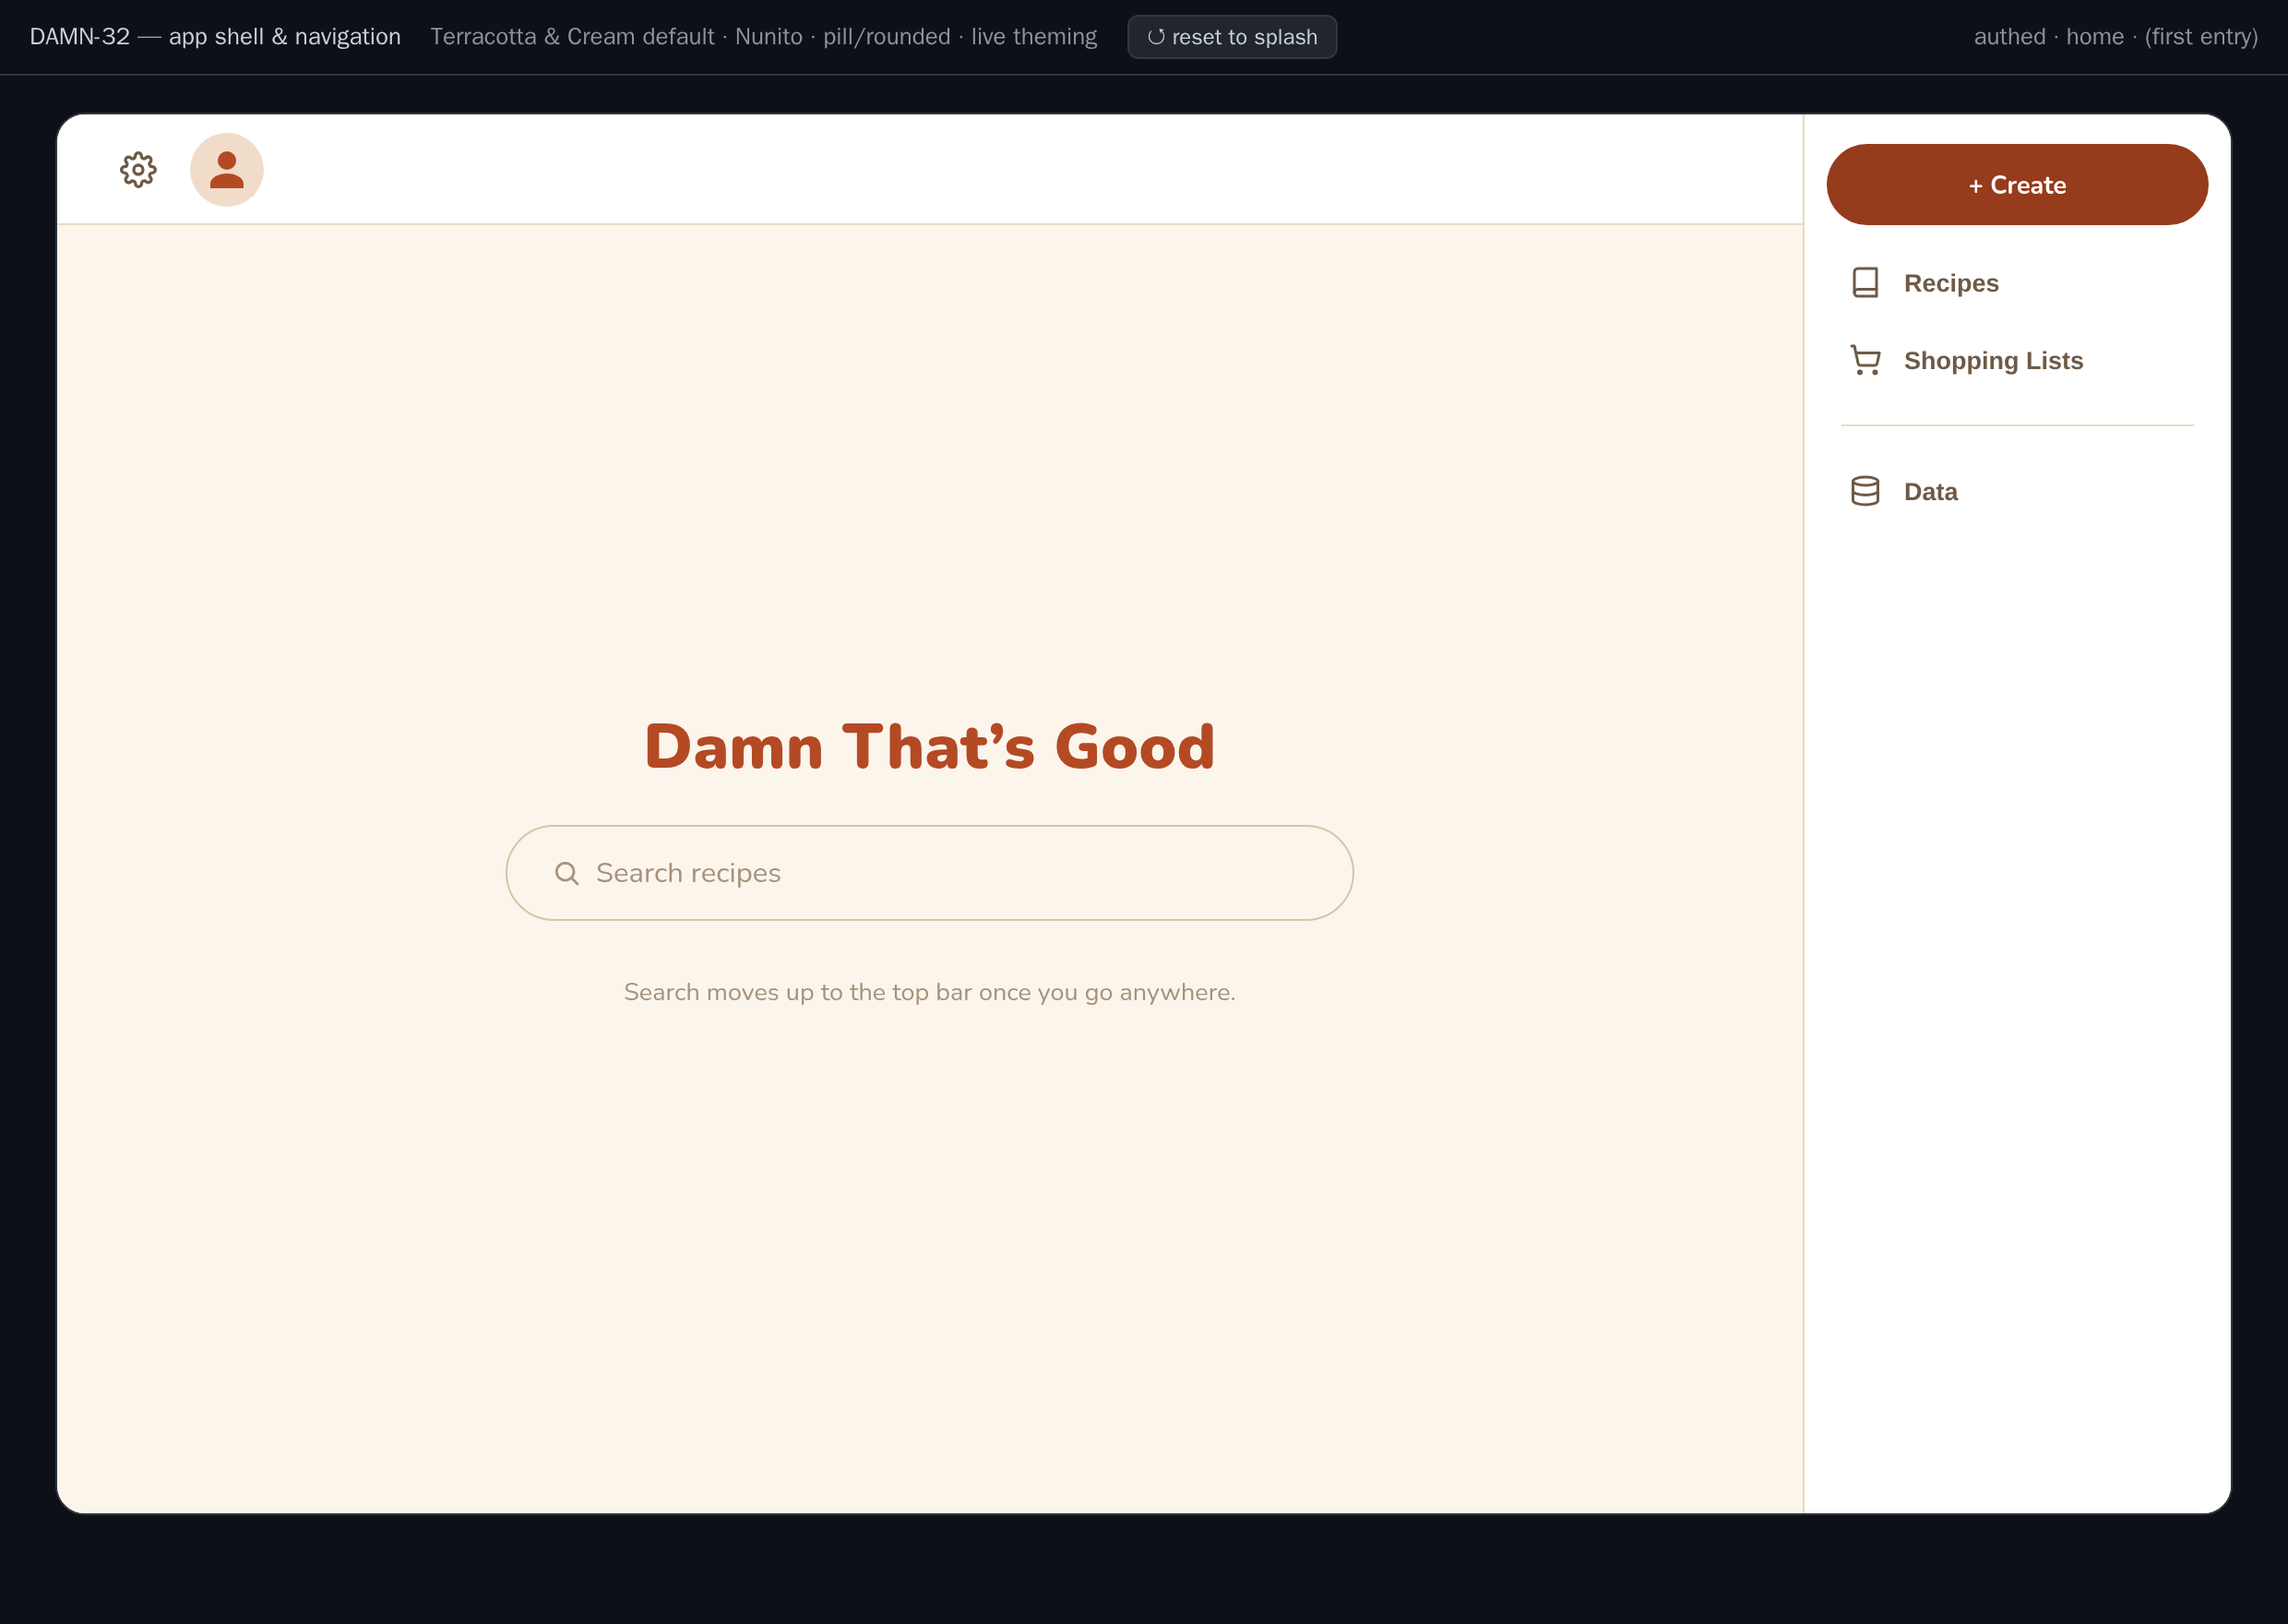
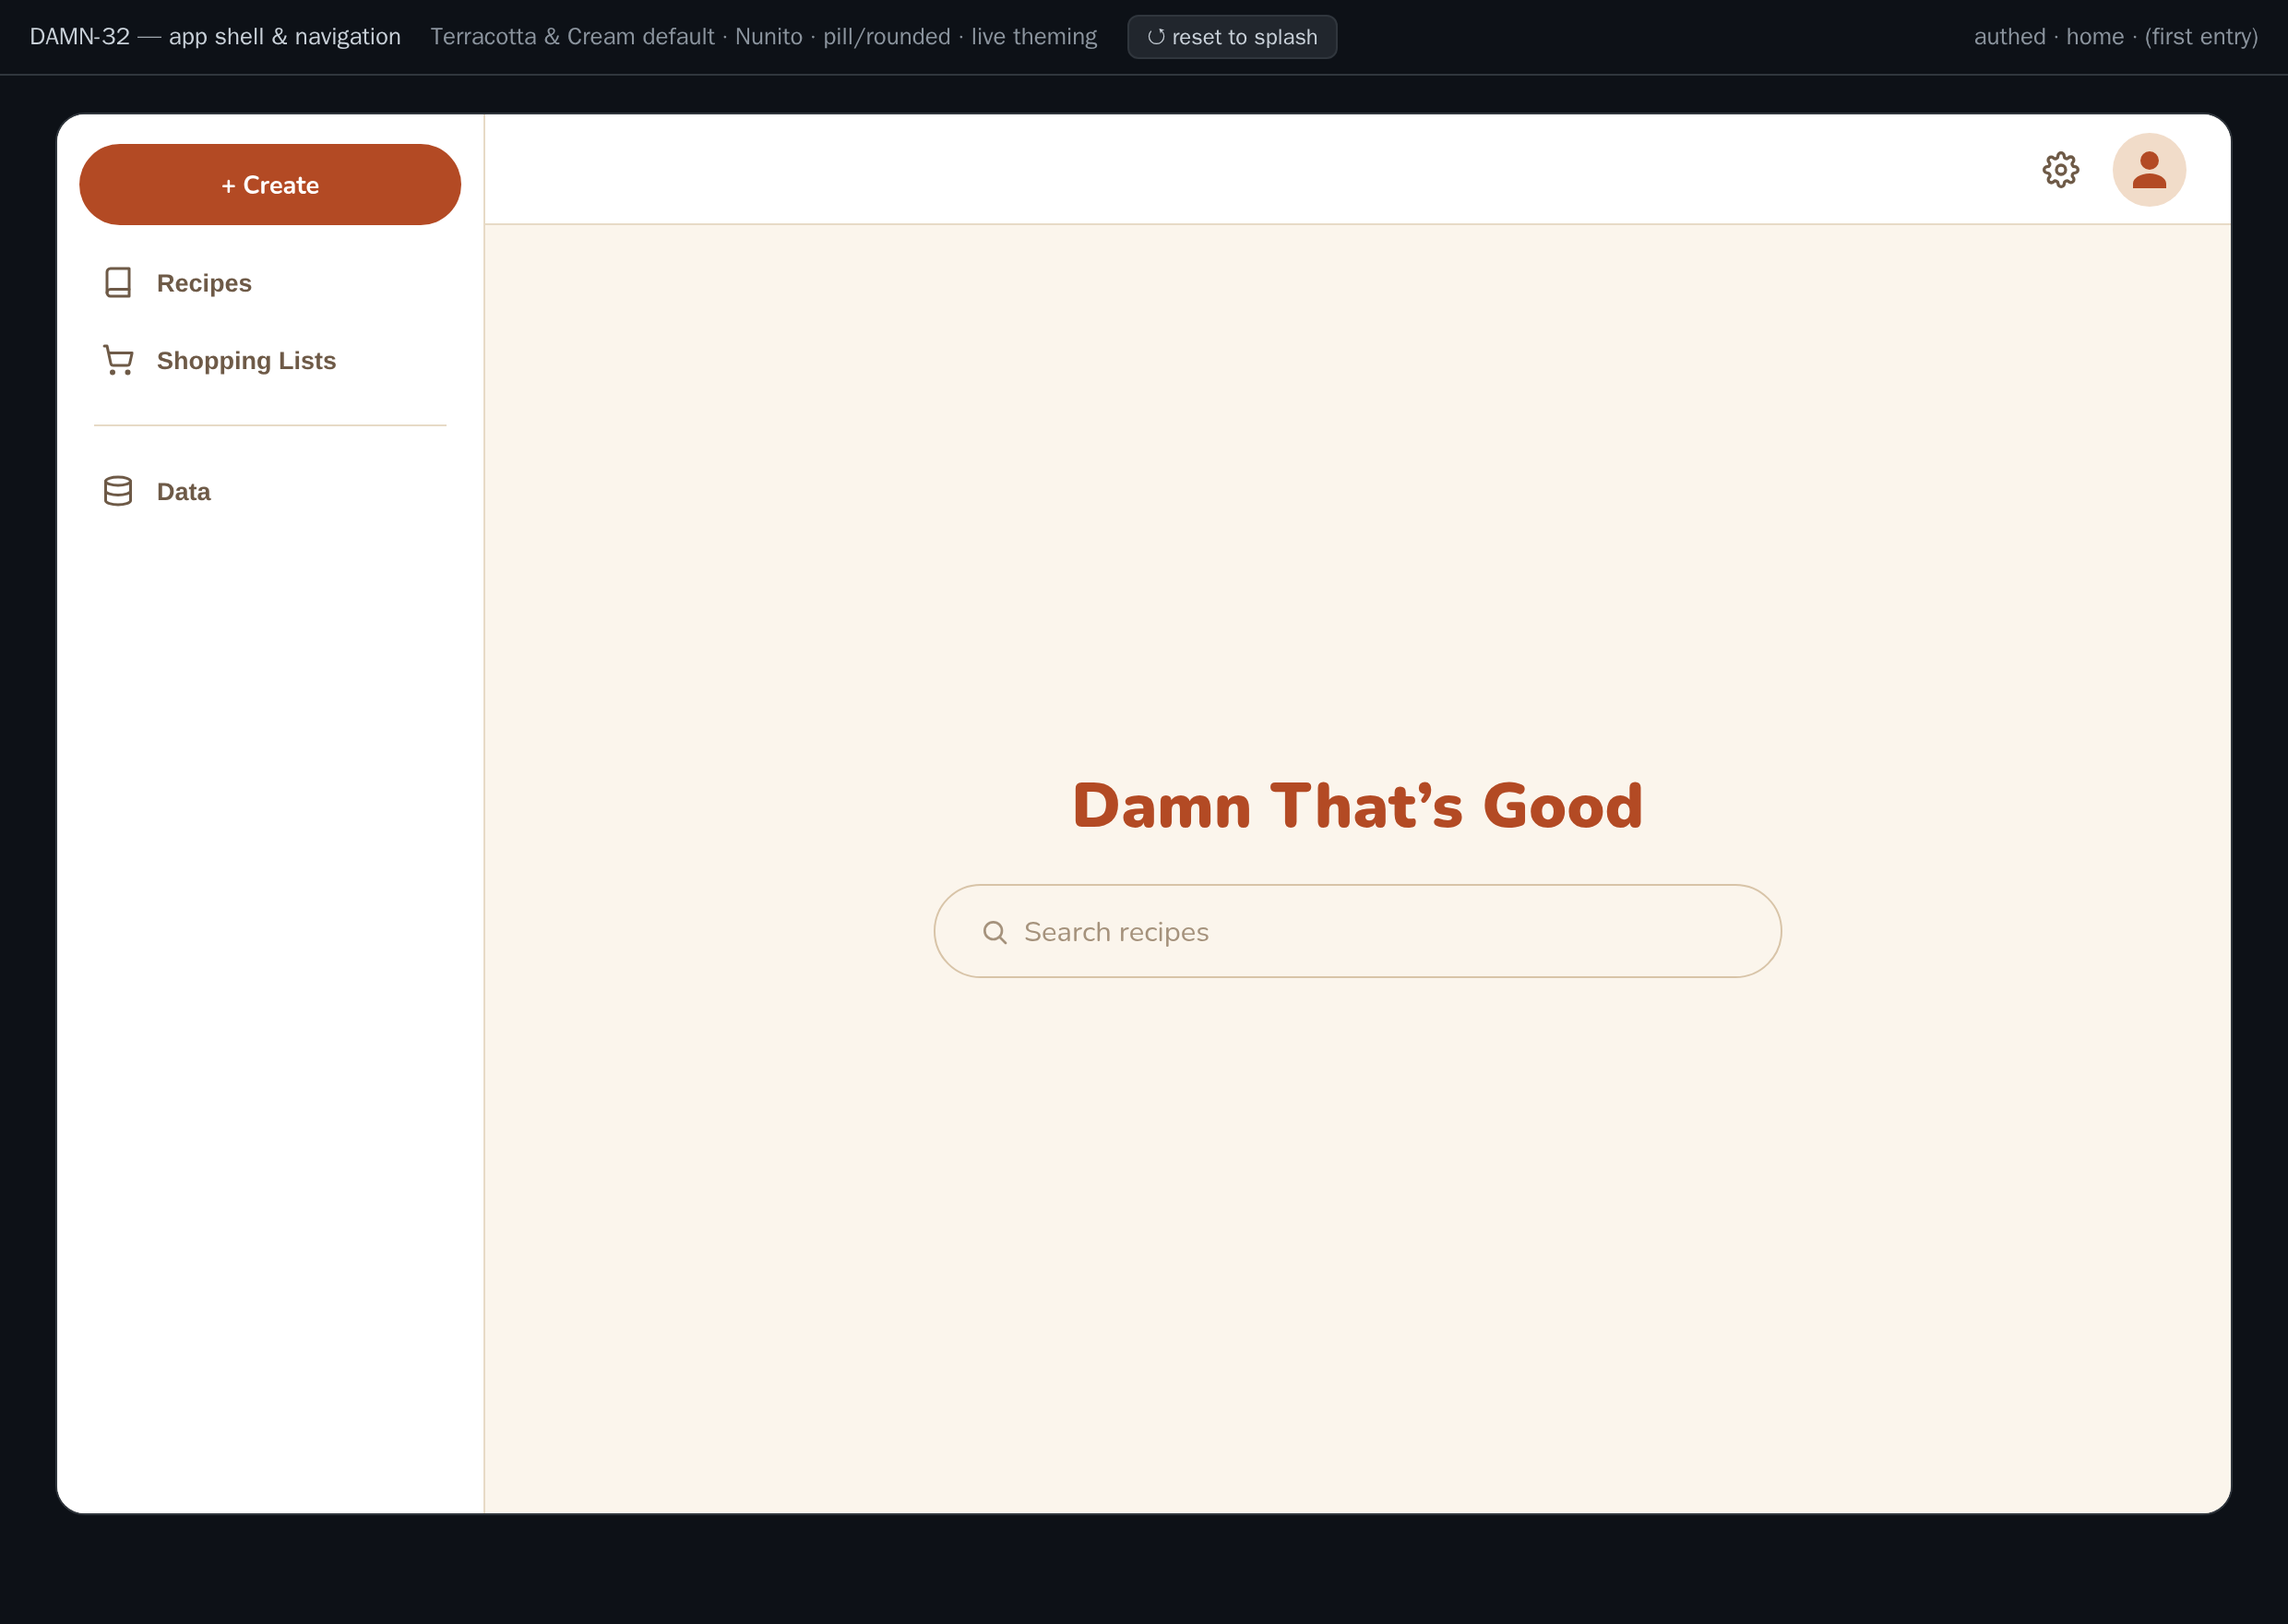
DAMN-32: mockup revisions from review
- splash: drop top-left wordmark + tagline (centered wordmark only)
- shell: nav rail moves to the left, gear + avatar to the right
- popovers reposition (settings/avatar open from the right, Create from the left)
- drop the mockup-only "search moves up" annotation

Claude-Session: https://claude.ai/code/session_01EenMmnY8aPtCiYP1EZCHrh

diff --git a/docs/features/DAMN-32-ux-framework-app-shell-navigation/mockups/app-shell.html b/docs/features/DAMN-32-ux-framework-app-shell-navigation/mockups/app-shell.html
@@ -122,8 +122,8 @@
   .app {
     width: 1180px; max-width: 100%; height: 760px;
     border-radius: 16px; overflow: hidden; border: 1px solid #30363d;
-    display: grid; grid-template-columns: 1fr 232px; grid-template-rows: 60px 1fr;
-    grid-template-areas: "topbar nav" "main nav";
+    display: grid; grid-template-columns: 232px 1fr; grid-template-rows: 60px 1fr;
+    grid-template-areas: "nav topbar" "nav main";
     background: var(--color-bg-primary); color: var(--color-text-primary);
     font-family: var(--font-sans); font-size: var(--text-base);
     line-height: var(--leading-normal);
@@ -138,7 +138,7 @@
     padding: 0 var(--space-5); border-bottom: 1px solid var(--color-border);
     background: var(--color-bg-secondary);
   }
-  .brand-cluster { display: flex; align-items: center; gap: var(--space-2); }
+  .account-cluster { display: flex; align-items: center; gap: var(--space-2); flex: none; }
   .wordmark {
     font-weight: 900; font-size: var(--text-lg); letter-spacing: .005em;
     color: var(--color-brand); white-space: nowrap;
@@ -172,10 +172,10 @@
   }
   .search-input svg { width: 16px; height: 16px; flex: none; }
 
-  /* ---- right nav rail ---- */
+  /* ---- left nav rail ---- */
   .nav-rail {
     grid-area: nav; background: var(--color-bg-secondary);
-    border-left: 1px solid var(--color-border);
+    border-right: 1px solid var(--color-border);
     padding: var(--space-4) var(--space-3); display: flex; flex-direction: column; gap: var(--space-1);
   }
   .btn {
@@ -214,7 +214,6 @@
   }
   .home-centered .wordmark { font-size: var(--text-3xl); }
   .home-centered .search-input { width: 460px; max-width: 100%; font-size: var(--text-base); padding: 13px var(--space-5); }
-  .home-centered .hint { color: var(--color-text-tertiary); font-size: var(--text-sm); }
 
   .card {
     background: var(--color-bg-secondary); border: 1px solid var(--color-border);
@@ -266,9 +265,9 @@
   .menu .danger { color: var(--color-danger); }
   .menu-divider { height: 1px; background: var(--color-border); margin: var(--space-2) 0; }
 
-  .settings-pop { top: 54px; left: var(--space-5); }
-  .avatar-menu { top: 54px; left: 64px; }
-  .create-menu { top: 52px; right: 0; }
+  .settings-pop { top: 64px; right: calc(var(--space-5) + 48px); }
+  .avatar-menu { top: 64px; right: var(--space-5); }
+  .create-menu { top: 52px; left: 0; }
 
   .settings-pop h3 {
     margin: 0 0 var(--space-3); font-size: var(--text-xs); letter-spacing: .06em;
@@ -300,13 +299,12 @@
     grid-column: 1 / -1; grid-row: 1 / -1;
     display: flex; flex-direction: column; background: var(--color-bg-primary);
   }
-  .splash-bar { display: flex; justify-content: space-between; align-items: center; padding: var(--space-4) var(--space-6); }
+  .splash-bar { display: flex; justify-content: flex-end; align-items: center; padding: var(--space-4) var(--space-6); }
   .splash-body {
     flex: 1; display: flex; flex-direction: column; align-items: center; justify-content: center;
     gap: var(--space-4); text-align: center; padding-bottom: 80px;
   }
   .splash-body .wordmark { font-size: 52px; }
-  .splash-body .tagline { color: var(--color-text-secondary); font-size: var(--text-lg); }
 
   [hidden] { display: none !important; }
   :focus-visible { outline: 2px solid var(--color-focus); outline-offset: 2px; }
@@ -327,25 +325,15 @@
   <!-- ================= SPLASH (unauthenticated) ================= -->
   <div class="splash" id="splash">
     <div class="splash-bar">
-      <span class="wordmark">Damn That&rsquo;s Good</span>
       <button class="btn btn-primary" id="login-btn">Log in</button>
     </div>
     <div class="splash-body">
       <span class="wordmark">Damn That&rsquo;s Good</span>
-      <p class="tagline">Your recipes, versioned and kept.</p>
     </div>
   </div>
 
   <!-- ================= AUTHENTICATED SHELL ================= -->
   <div class="top-bar" id="topbar" hidden>
-    <div class="brand-cluster">
-      <button class="icon-btn" id="gear-btn" aria-label="Settings" aria-haspopup="true">
-        <svg viewBox="0 0 24 24" fill="none" stroke="currentColor" stroke-width="2" stroke-linecap="round" stroke-linejoin="round"><circle cx="12" cy="12" r="3"/><path d="M19.4 15a1.65 1.65 0 0 0 .33 1.82l.06.06a2 2 0 1 1-2.83 2.83l-.06-.06a1.65 1.65 0 0 0-1.82-.33 1.65 1.65 0 0 0-1 1.51V21a2 2 0 0 1-4 0v-.09A1.65 1.65 0 0 0 9 19.4a1.65 1.65 0 0 0-1.82.33l-.06.06a2 2 0 1 1-2.83-2.83l.06-.06A1.65 1.65 0 0 0 4.6 15a1.65 1.65 0 0 0-1.51-1H3a2 2 0 0 1 0-4h.09A1.65 1.65 0 0 0 4.6 9a1.65 1.65 0 0 0-.33-1.82l-.06-.06a2 2 0 1 1 2.83-2.83l.06.06A1.65 1.65 0 0 0 9 4.6a1.65 1.65 0 0 0 1-1.51V3a2 2 0 0 1 4 0v.09a1.65 1.65 0 0 0 1 1.51 1.65 1.65 0 0 0 1.82-.33l.06-.06a2 2 0 1 1 2.83 2.83l-.06.06A1.65 1.65 0 0 0 19.4 9a1.65 1.65 0 0 0 1.51 1H21a2 2 0 0 1 0 4h-.09a1.65 1.65 0 0 0-1.51 1z"/></svg>
-      </button>
-      <button class="avatar" id="avatar-btn" aria-label="Account" aria-haspopup="true">
-        <svg viewBox="0 0 24 24" fill="currentColor"><path d="M12 12a5 5 0 1 0 0-10 5 5 0 0 0 0 10zm0 2c-5 0-9 2.5-9 5.5V22h18v-2.5c0-3-4-5.5-9-5.5z"/></svg>
-      </button>
-    </div>
     <div class="top-search" id="topbar-search" hidden>
       <div class="search-input">
         <svg viewBox="0 0 24 24" fill="none" stroke="currentColor" stroke-width="2" stroke-linecap="round"><circle cx="11" cy="11" r="7"/><path d="m21 21-4.3-4.3"/></svg>
@@ -353,6 +341,14 @@
       </div>
     </div>
     <div style="flex:1" id="topbar-spacer"></div>
+    <div class="account-cluster">
+      <button class="icon-btn" id="gear-btn" aria-label="Settings" aria-haspopup="true">
+        <svg viewBox="0 0 24 24" fill="none" stroke="currentColor" stroke-width="2" stroke-linecap="round" stroke-linejoin="round"><circle cx="12" cy="12" r="3"/><path d="M19.4 15a1.65 1.65 0 0 0 .33 1.82l.06.06a2 2 0 1 1-2.83 2.83l-.06-.06a1.65 1.65 0 0 0-1.82-.33 1.65 1.65 0 0 0-1 1.51V21a2 2 0 0 1-4 0v-.09A1.65 1.65 0 0 0 9 19.4a1.65 1.65 0 0 0-1.82.33l-.06.06a2 2 0 1 1-2.83-2.83l.06-.06A1.65 1.65 0 0 0 4.6 15a1.65 1.65 0 0 0-1.51-1H3a2 2 0 0 1 0-4h.09A1.65 1.65 0 0 0 4.6 9a1.65 1.65 0 0 0-.33-1.82l-.06-.06a2 2 0 1 1 2.83-2.83l.06.06A1.65 1.65 0 0 0 9 4.6a1.65 1.65 0 0 0 1-1.51V3a2 2 0 0 1 4 0v.09a1.65 1.65 0 0 0 1 1.51 1.65 1.65 0 0 0 1.82-.33l.06-.06a2 2 0 1 1 2.83 2.83l-.06.06A1.65 1.65 0 0 0 19.4 9a1.65 1.65 0 0 0 1.51 1H21a2 2 0 0 1 0 4h-.09a1.65 1.65 0 0 0-1.51 1z"/></svg>
+      </button>
+      <button class="avatar" id="avatar-btn" aria-label="Account" aria-haspopup="true">
+        <svg viewBox="0 0 24 24" fill="currentColor"><path d="M12 12a5 5 0 1 0 0-10 5 5 0 0 0 0 10zm0 2c-5 0-9 2.5-9 5.5V22h18v-2.5c0-3-4-5.5-9-5.5z"/></svg>
+      </button>
+    </div>
 
     <!-- settings popover -->
     <div class="popover settings-pop" id="settings-pop" hidden>
@@ -491,7 +487,6 @@
           <svg viewBox="0 0 24 24" fill="none" stroke="currentColor" stroke-width="2" stroke-linecap="round"><circle cx="11" cy="11" r="7"/><path d="m21 21-4.3-4.3"/></svg>
           Search recipes
         </div>
-        <p class="hint">Search moves up to the top bar once you go anywhere.</p>
       </div>`,
     recipes: () => `
       <div class="view">
